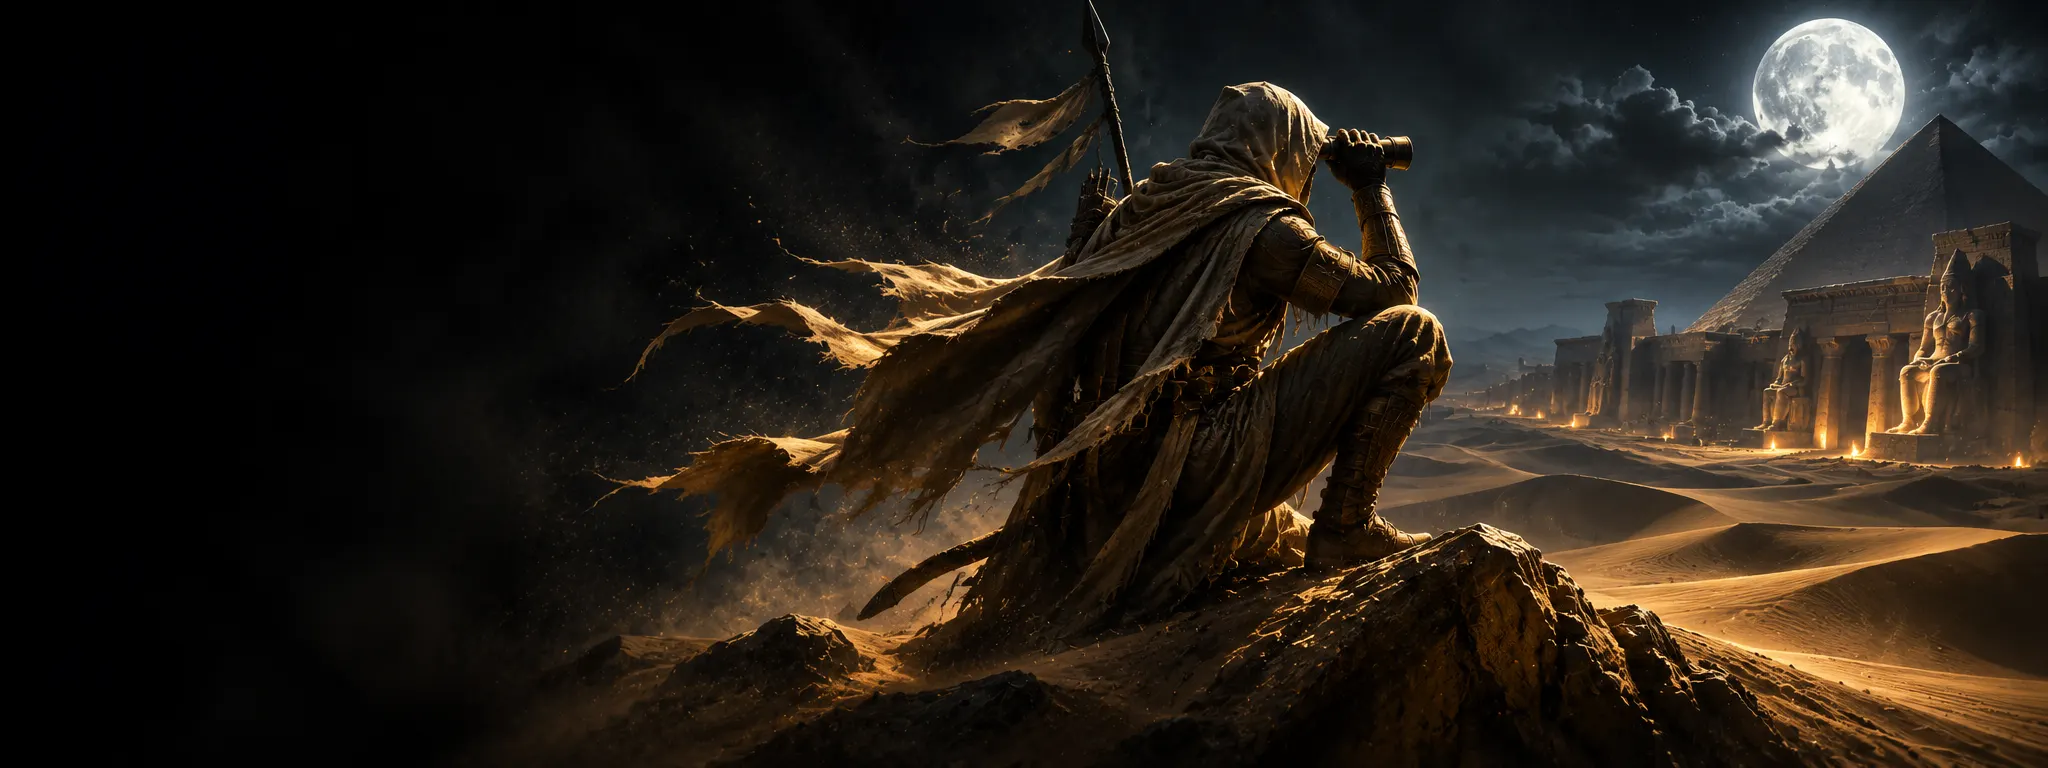
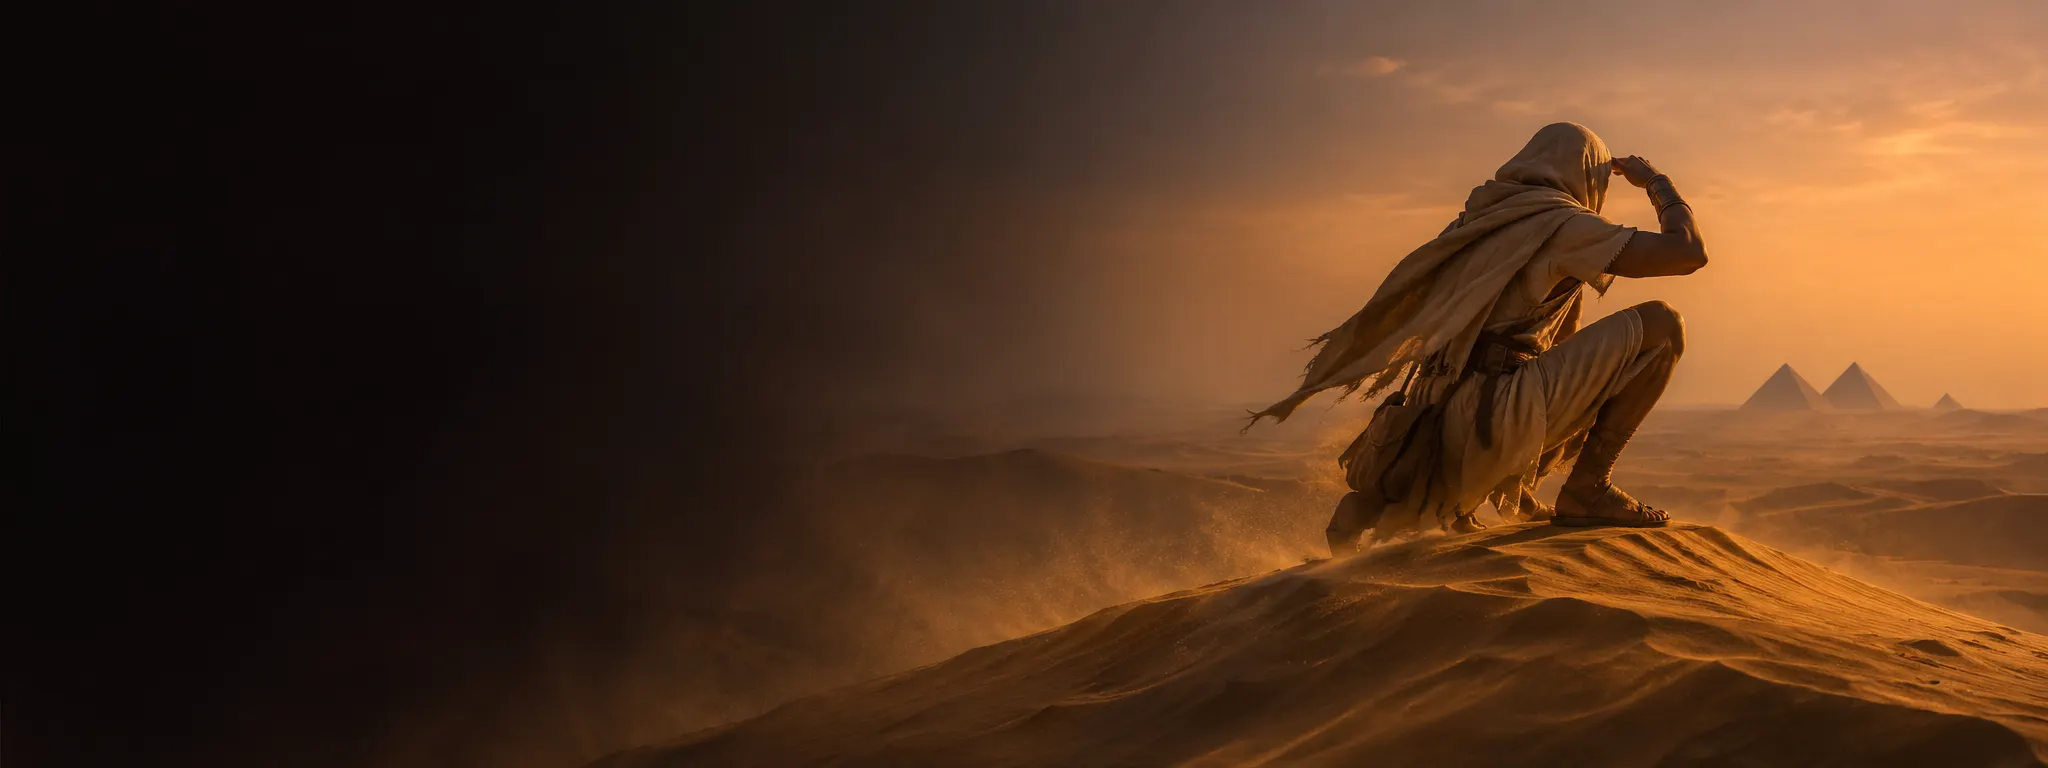
Carte Éclaireur : nouvelle image photoréaliste

diff --git a/src/lib/cards.js b/src/lib/cards.js
@@ -43,7 +43,7 @@ const CARDS = {
   "rang-champion": { rarity: "legendaire", art: { type: "rank", rank: "Champion", title: "#f0a6e8", image: "/images/cartes/champion.webp", og: "/images/cartes/og/champion.jpg", position: "center 60%", mobilePosition: "22% center", light: true } },
   "rang-legende": { rarity: "legendaire", art: { type: "rank", rank: "Légende", title: "#ff8a3d", video: "/images/cartes/legende.mp4", poster: "/images/cartes/legende-poster.webp", cover: true, position: "center", mobilePosition: "40% center", og: "/images/cartes/og/legende.jpg", light: true } },
   // Pass de la saison 1 : dessins provisoires, remplacés par art.image quand les illustrations existent.
-  "pass-s1-eclaireur": { rarity: "commune", art: { type: "illustration", glyph: "5", hue: "#d4af37", image: "/images/cartes/pass-s1-eclaireur.webp", og: "/images/cartes/og/pass-s1-eclaireur.jpg", position: "center 10%", mobilePosition: "62% center" } },
+  "pass-s1-eclaireur": { rarity: "commune", art: { type: "illustration", glyph: "5", hue: "#d4af37", image: "/images/cartes/pass-s1-eclaireur.webp", og: "/images/cartes/og/pass-s1-eclaireur.jpg", position: "center 30%", mobilePosition: "62% center" } },
   "pass-s1-sentinelle": { rarity: "rare", art: { type: "illustration", glyph: "15", hue: "#5cc8ff", image: "/images/cartes/pass-s1-sentinelle.webp", og: "/images/cartes/og/pass-s1-sentinelle.jpg", position: "center 10%", mobilePosition: "62% center" } },
   "pass-s1-gardien": { rarity: "epique", art: { type: "illustration", glyph: "25", hue: "#8b5cf6", image: "/images/cartes/pass-s1-gardien.webp", og: "/images/cartes/og/pass-s1-gardien.jpg", position: "center 0%", mobilePosition: "62% center" } },
   "pass-s1-pharaon": { rarity: "legendaire", art: { type: "illustration", glyph: "30", hue: "#f5b83d", image: "/images/cartes/pass-s1-pharaon.webp", og: "/images/cartes/og/pass-s1-pharaon.jpg", position: "center 15%", mobilePosition: "62% center" } },

diff --git a/src/lib/releases.js b/src/lib/releases.js
@@ -6,9 +6,9 @@
 export const RELEASES = [
   {
     date: "2026-11-08",
-    title: "Nouvelles images MVP et circuit",
+    title: "Nouvelles images MVP, circuit et Éclaireur",
     items: [
-      { tag: "Classé", text: "MVP du mois, MVP ×10 et Vainqueur du circuit S1 ont une nouvelle illustration, plus réaliste." },
+      { tag: "Classé", text: "MVP du mois, MVP ×10, Vainqueur du circuit S1 et Éclaireur ont une nouvelle illustration, plus réaliste." },
     ],
   },
   {
